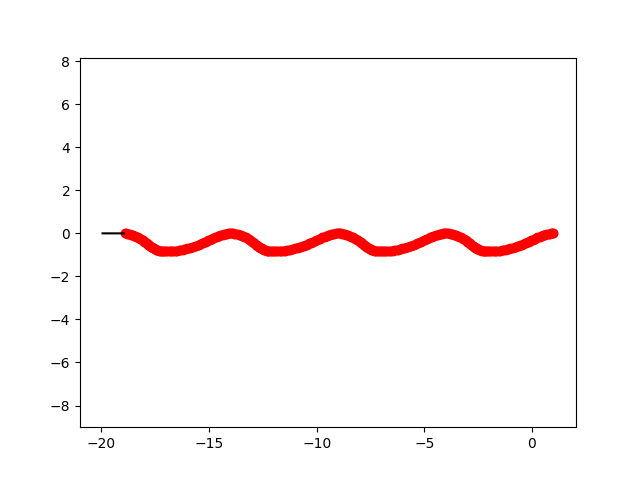
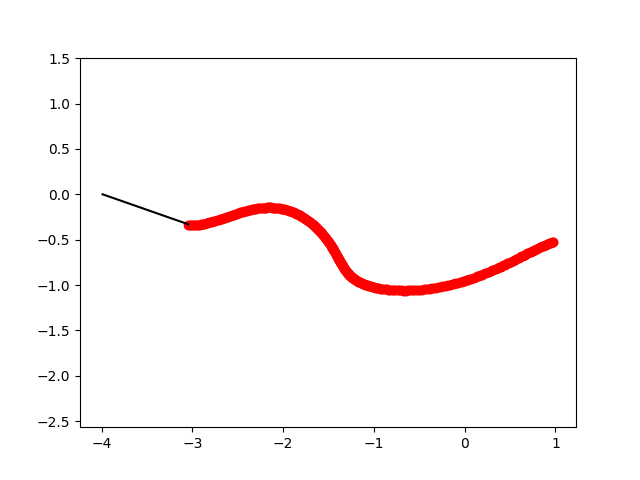
redo mods

diff --git a/aero_solver/aero_objects.py b/aero_solver/aero_objects.py
@@ -226,17 +226,17 @@ def V_ind_b_fast_4(camber_line, x_n, y_n, v_core,t):
     return u_ind, v_ind
 
 chords = 1 + np.zeros(400)
-t_step = 0.01
+t_step = 0.01/5
 td = np.linspace(0,400*t_step,400,endpoint=False)
 
 
 x_dot = lambda t: 5
 h_dot = lambda t: 0
-alpha_dot = lambda t: 2*np.pi*0.5*np.sin(2*np.pi*t)
+alpha_dot = lambda t: 1.5*2*np.pi*0.5*np.sin(1.5*2*np.pi*t)
 
 u = lambda t: 5*t
 h = lambda t: 0
-alpha = lambda t: 0.5 - 0.5*np.cos(2*np.pi*t)
+alpha = lambda t: 0.5 - 0.5*np.cos(1.5*2*np.pi*t)
 
 bem = camber_line(chords, 50, x_dot,h_dot,alpha_dot,u,h,alpha,t_step)
 
@@ -257,7 +257,7 @@ for t in td:
                            np.concatenate((field.tev, field.lev, field.ext)),
                            t)
         
-        # field.advect(bem,t_step)
+        field.advect(bem,t_step)
 
         print(bem.calc_cl())
 
